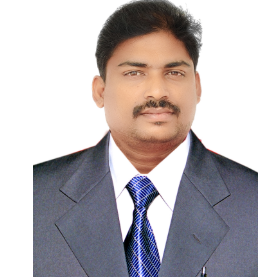
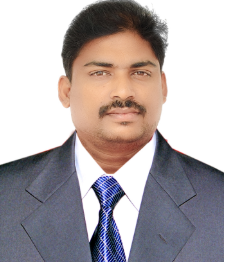
Faculty profile & Appslidebar page worked

diff --git a/frontend/src/pages/faculty/pages/Profile.tsx b/frontend/src/pages/faculty/pages/Profile.tsx
@@ -27,7 +27,7 @@ import {
 // Faculty data based on the Self-Appraisal Form
 const facultyData = {
   // Basic Information
-  name: "J. Vinoth Kumar",
+  name: "C.Prathap",
   employeeId: "FAC2023045",
   designation: "Assistant Professor",
   department: "Artificial Intelligence and Data Science",
@@ -109,7 +109,8 @@ const subjectsHandled = [
 
 // Professional Memberships
 const memberships = [
-  { society: "IAENG Member", id: "304180", status: "Active" },
+  { society: "COE Member", id: "304180", status: "Active" },
+   
 ];
 
 // Leave Details
@@ -262,7 +263,19 @@ ${memberships.map(m => `${m.society} (ID: ${m.id})`).join('\n')}
         >
           <div className="text-center">
             <div className="w-32 h-32 mx-auto rounded-full bg-gradient-to-br from-primary to-secondary flex items-center justify-center mb-4">
-              <span className="text-4xl font-bold text-white">JV</span>
+               <img
+                  src="/src/assets/prathap.png"
+                  alt="C.Prathap"
+                  className="w-32 h-32 rounded-full object-cover border-2 border-white"
+                  onError={(e) => {
+                    // Fallback to initials if image fails to load
+                    e.currentTarget.style.display = 'none';
+                    e.currentTarget.nextElementSibling?.classList.remove('hidden');
+                  }}
+                />
+                <div className="hidden w-12 h-12 rounded-full bg-gradient-to-br from-sidebar-accent to-secondary flex items-center justify-center flex-shrink-0 text-white font-bold text-sm border-2 border-white">
+                  CP
+                </div>
             </div>
             <h2 className="font-serif text-xl font-bold text-foreground">
               {facultyData.name}

diff --git a/frontend/src/pages/faculty/components/layout/AppSidebar.tsx b/frontend/src/pages/faculty/components/layout/AppSidebar.tsx
@@ -29,7 +29,7 @@ const menuItems = [
   { title: "Leave", url: "/faculty/leave", icon: CalendarDays },
   { title: "Assessments", url: "/faculty/assessments", icon: FileText },
   { title: "Counseling", url: "/faculty/counseling", icon: Users },
-  { title: "Communication", url: "/faculty/communication", icon: MessageSquare },
+  { title: "Announcement", url: "/faculty/communication", icon: MessageSquare },
   { title: "Reports", url: "/faculty/reports", icon: BarChart3 },
 ];
 
@@ -85,6 +85,10 @@ export function AppSidebar() {
                   <span className="text-xs text-white/70 whitespace-nowrap mt-1">
                     Assistant Professor
                   </span>
+                  <span className="text-xs text-white/70 whitespace-nowrap mt-1">
+                    Department of AI & DS
+                  </span>
+                 
                 </div>
               </motion.div>
             )}
